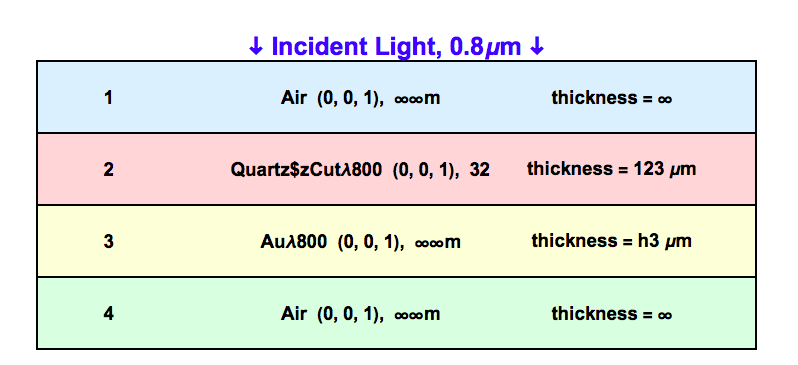
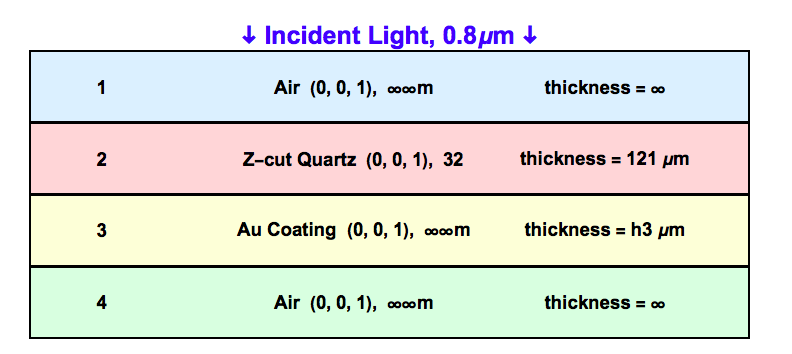
Minor changes 1
Updated multilayer and polar plot with ticks

diff --git a/docs/examples.md b/docs/examples.md
@@ -13,15 +13,15 @@ We start by discussing the experimental details before proceeding to simulate th
 
 - Set the wavelength to 0.8 $\mu$m (800 nm) from the wavelength setting sub-panel.
 
-- In the `material selection` sub-panel, type 4 for the number of layers. This includes the background (air) on the top and bottom as two distinct layers. 
-- Click on `1` to edit the first layer. From the case studies and examples sub-panel below, click `Air`. This should set the first layer to air. Set the last layer to air by clicking on `4` in the material selection sub-panel and clicking `Air` from the `case study` sub-panel. 
+- In the `Material Selection` sub-panel, type 4 for the number of layers. This includes the background (air) on the top and bottom as two distinct layers. 
+- Click on `1` to edit the first layer. From the case studies and examples sub-panel below, click `Air`. This should set the first layer to air. Set the last layer to air by clicking on `4` in the material selection sub-panel and clicking `Air` from the `Case Study` sub-panel. 
 
 !!! note 
 	Note that air is assumed to be a dispersionless isotropic linear medium with $\infty \infty m$ point group.
 
 - Now click on `2` to edit the first layer of the multilayer. Give it a suitable name, say "Z-cut quartz". The crystal and optical properties of quartz are already pre-defined and saved as an example. To apply these properties, click on `Quartz (001)` from the case study sub-panel.
 
-- From the `material thickness` sub-panel, enter 121.2 ($\mu$m) to set the thickness of the quartz slab. Since the crystal and optical properties of quartz are already defined, nothing needs to be changed in the crystal structure, crystal orientation, dielectric tensors and SHG tensor sub-panels.
+- From the `Material thickness` sub-panel, enter 121.2 ($\mu$m) to set the thickness of the quartz slab. Since the crystal and optical properties of quartz are already defined, nothing needs to be changed in the crystal structure, crystal orientation, dielectric tensors and SHG tensor sub-panels.
 !!! note
 	   Note: In general, the user would need to manually enter the crystal and optical properties of the layer. See the Input Panel section of the manual for more details and instructions.
 
@@ -67,9 +67,9 @@ In this section, we show how two SHG active layers can be used to determine the 
 !!! note
 	Note that air is assumed to be a dispersionless isotropic linear medium with $\infty \infty m$ point group.
 
-- Now click on `2` to edit the first layer of the multilayer. Give it a suitable name, say "LNO". The crystal structure and optical properties of LiNbO<sub>3</sub> are already pre-defined and saved as an example. To apply these properties, click on LiNbO<sub>3</sub> (0001) from the `case study` sub-panel.
+- Now click on `2` to edit the first layer of the multilayer. Give it a suitable name, say "LNO". The crystal structure and optical properties of LiNbO<sub>3</sub> are already pre-defined and saved as an example. To apply these properties, click on LiNbO<sub>3</sub> (0001) from the `Case Study` sub-panel.
 
-- From the material thickness sub-panel, enter 100 ($\mu$m) to set the thickness of the LiNbO<sub>3</sub> slab. Since the crystal structure and optical properties of LiNbO<sub>3</sub> are already defined, nothing needs to be changed in the crystal structure, dielectric tensors and SHG tensor sub-panels. 
+- From the `Material thickness` sub-panel, enter 100 ($\mu$m) to set the thickness of the LiNbO<sub>3</sub> slab. Since the crystal structure and optical properties of LiNbO<sub>3</sub> are already defined, nothing needs to be changed in the crystal structure, dielectric tensors and SHG tensor sub-panels. 
 
 !!! note
 	In general, the user would need to manually enter the crystal and optical properties of the layer. See the Input Panel section of the manual for more details and instructions.

diff --git a/docs/output.md b/docs/output.md
@@ -8,7 +8,9 @@ The output panel occupies the major part of the graphical interface. The content
 ### Set Material Properties
 
 ![multilayer](./img/multilayer.png)
-[comment: Akash, please update the figure here and the name of quartz has been updated]
+
+
+
 -  The top figure describes the multilayer geometry including the background medium as the top-most and bottom-most layers. The layer name, Miller indices defining the crystal surface plane, point group and thickness is displayed for each layer.
 
 ![zilcs](./img/zilcs.png)
@@ -31,8 +33,6 @@ The figure on the top-right shows the fundamental incident wavevector $k^{\omega
 The ellipticity of the incident, reflected and transmitted beams are presented in the figure at the bottom-left corner while the measurement geometry is described in the figure on the bottom-right.
 
 #### Polar Plots
-
-[comment: Akash - Please update the polar plot figure after I include the varphi ticks]
 ![polar](./img/polar.png)
 
 The sub-panel shows the polar plots of the reflected and transmitted intensities of the second harmonic wave as a function of the incident polarization angle $\varphi$. $\psi$ refers to the analyzer angle.
